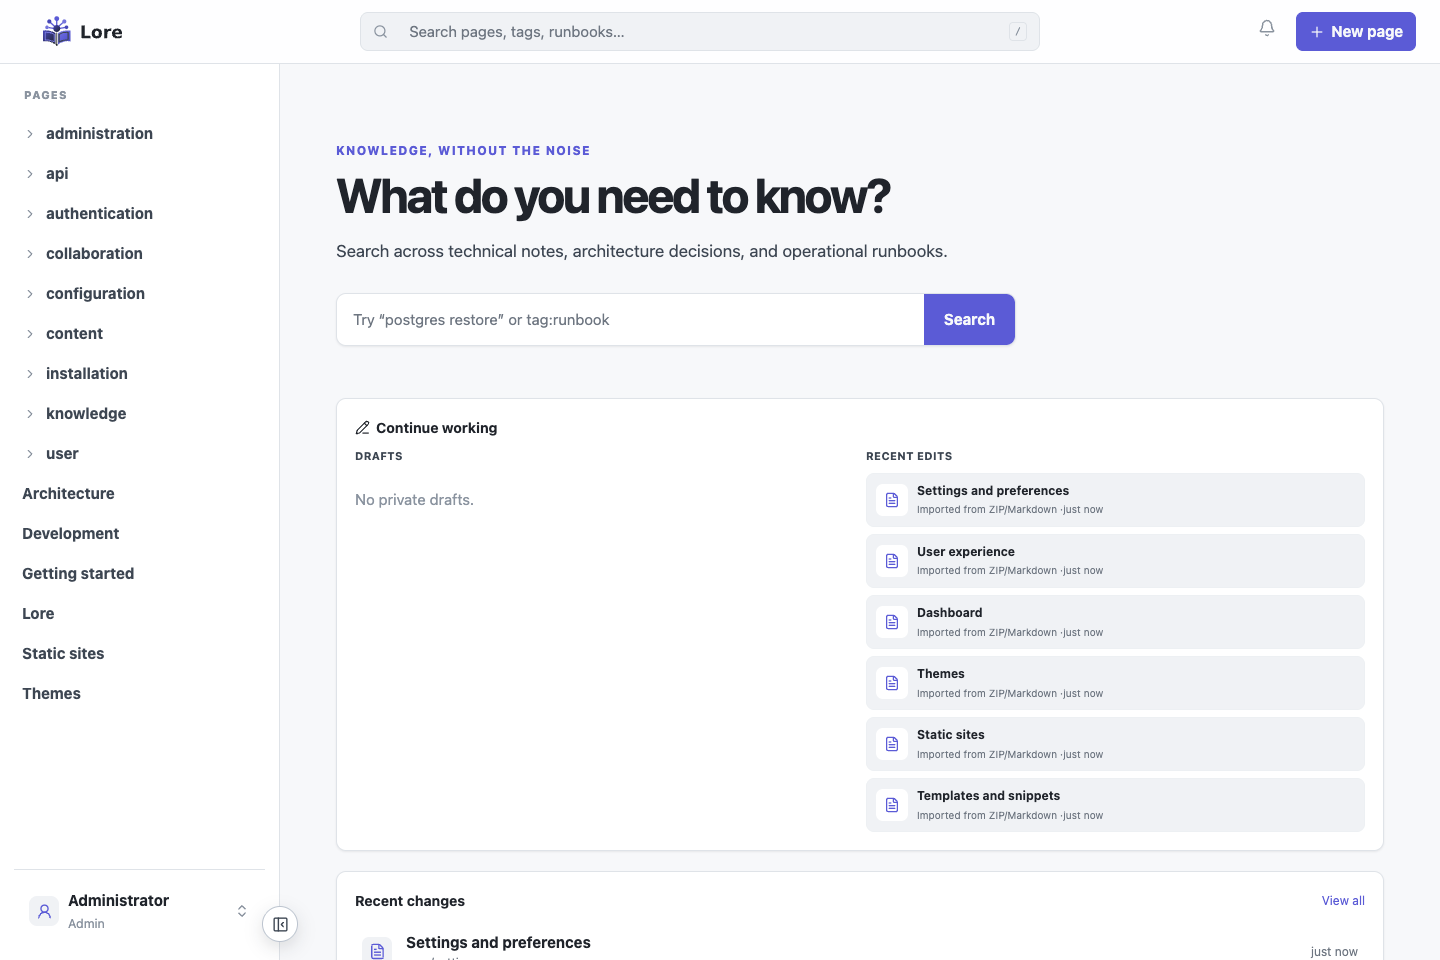
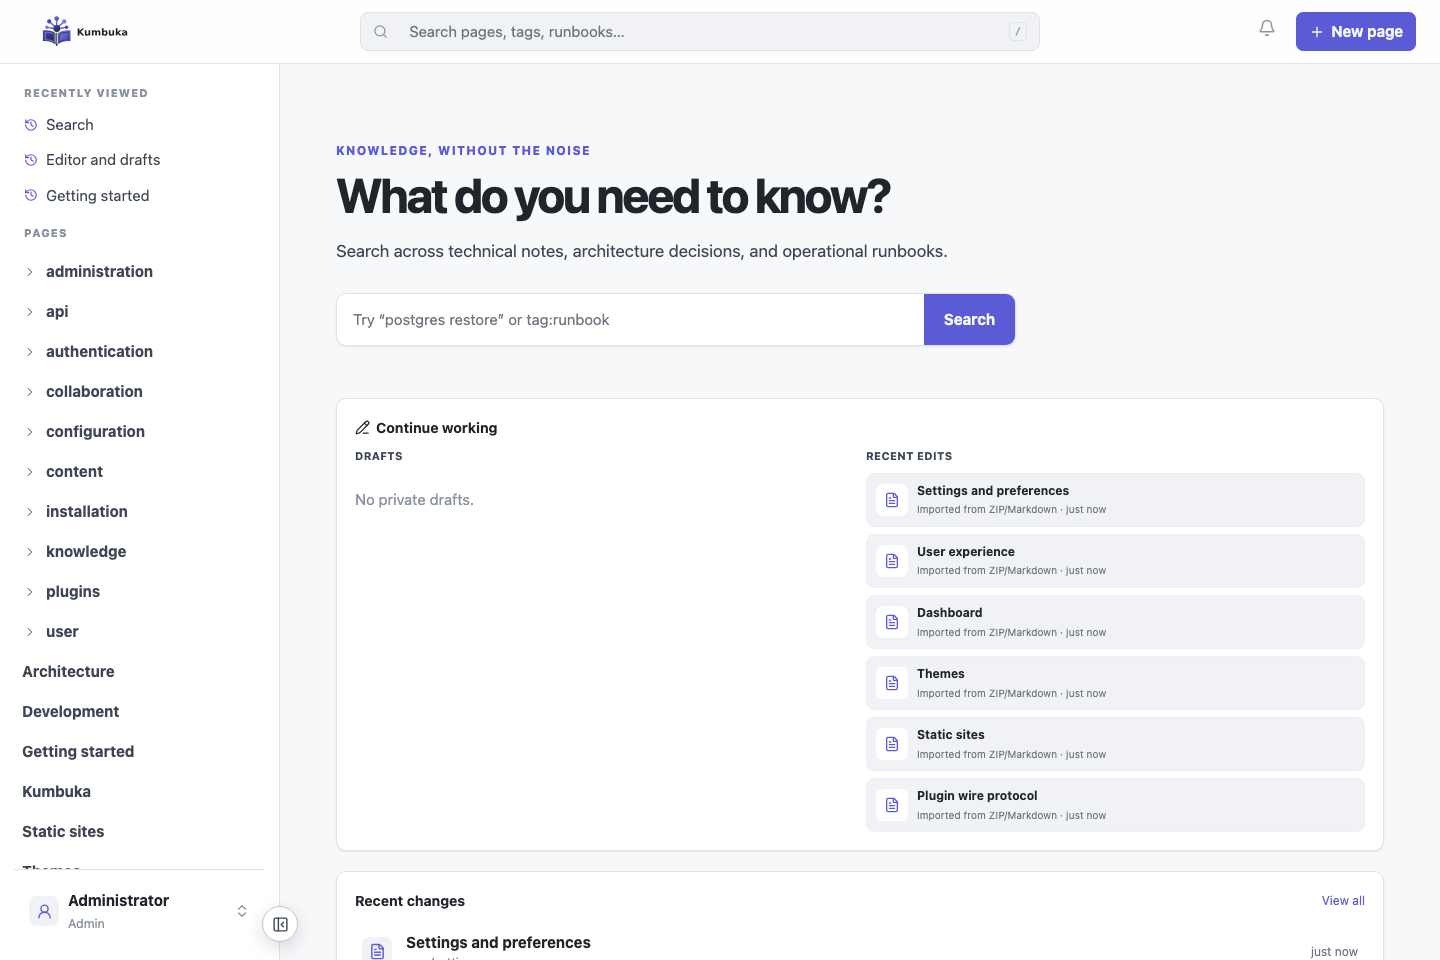
refactor: screenshots

diff --git a/README.md b/README.md
@@ -31,6 +31,16 @@ make serve
 
 The local site uses a persistent random port for the current checkout.
 
+## Screenshots
+
+Documentation screenshots are generated from the same Markdown under `content/`; there is no second fixture copy. Keep the Kumbuka server repository next to this checkout and run:
+
+```bash
+make screenshots
+```
+
+By default this expects the server at `../kumbuka`. Override `KUMBUKA_SERVER_DIR` when it lives elsewhere. Screenshot generation additionally requires Go, Docker, `zip`, and Playwright's Chromium browser. The manual **Documentation Screenshots** workflow checks out the server automatically and commits changed PNGs under `assets/screenshots/`.
+
 ## Links
 
 - [Documentation](https://kumbuka.me/)
